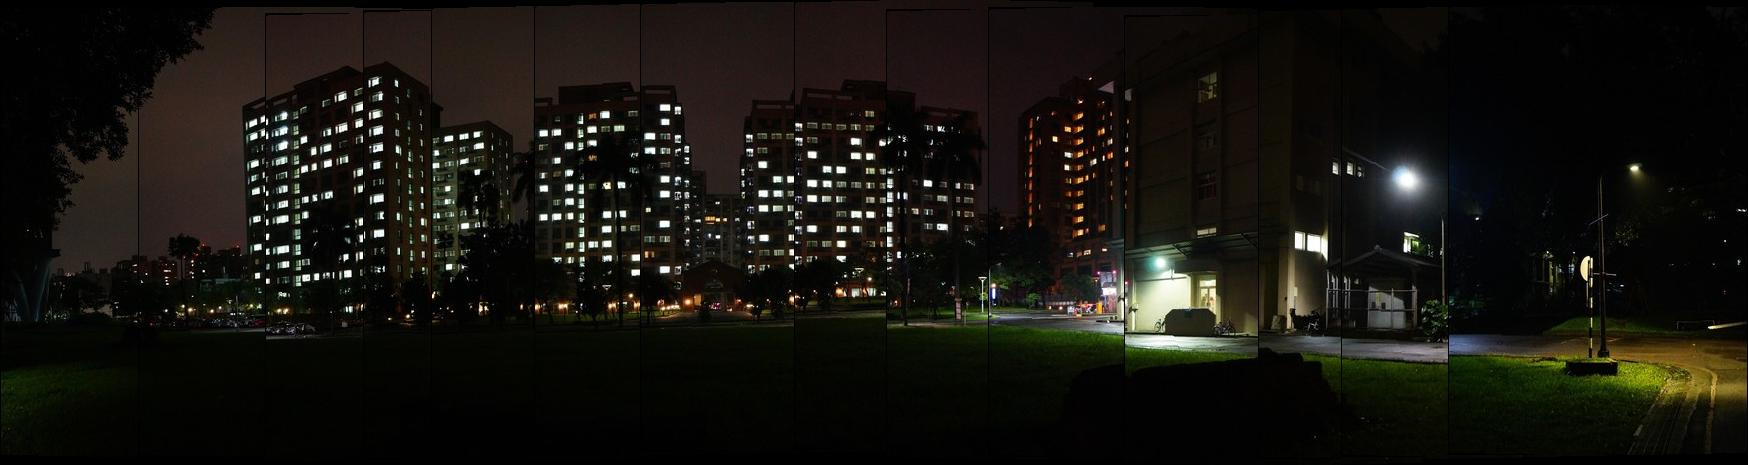
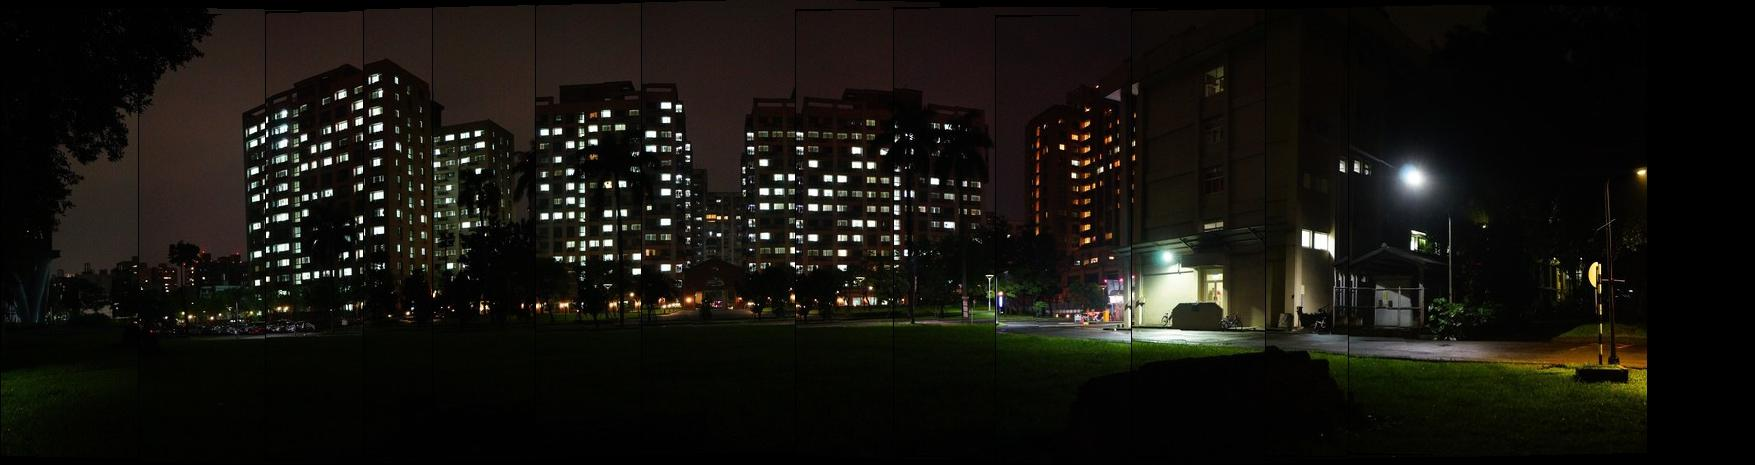
Fri Apr 26 18:33:37 CST 2019 finish linear blending

diff --git a/project2_panorama/src/stitching_cv2_test.py b/project2_panorama/src/stitching_cv2_test.py
@@ -1,0 +1,116 @@
+import cv2
+import numpy as np
+
+#    sift_threshold = 5   sift_cutoff = 0.0003     matched_y_abs_thres = 20
+shift_list = [[0,0],[-138,4],[-127, 2],[-98,2], [-69,6],[-103,-8],[-106, 2],
+            [-154,-9],[-98,3],[-102,2],[-136, 2],[-134, 4],[-83,3],[-107,-6]]
+shift_set = np.array(shift_list)
+height = 450
+width = 300
+image_set_size = 14
+img_list = []
+for i in range(image_set_size):
+    img = cv2.imread(str(i)+'.jpg') # size = 450x300
+    img_list.append(img)
+
+#######################################################
+
+shift_x = 0 #-1423
+shift_y = 0
+shift_y_max = -1*float("inf") #30
+shift_y_min = float("inf") #-1
+for shift in shift_list:
+    shift_x += shift[0]
+    shift_y += shift[1]
+    if shift_y<shift_y_min: shift_y_min=shift_y
+    if shift_y>shift_y_max: shift_y_max=shift_y
+
+# calculate left-top point coordinate of each image coming in pano scale
+# camera from left turn right
+# shift would be x,y    x<0  y not sure
+# pano coordinate go down go right is positive
+shift_acc=[] #shift_accumulations
+shift_sum = np.array([0,0])
+for shift in shift_set:
+    shift_sum+=shift
+    temp = shift_sum.copy()
+    temp[0] = -1*temp[0]
+    shift_acc.append(temp)
+print shift_acc, len(shift_acc)
+
+new_img = np.zeros( (height+abs(shift_y_min)+abs(shift_y_max), width+abs(shift_x),3),dtype=np.uint8)
+print new_img.shape # (481,1723,3)
+new_h, new_w  = new_img.shape[:2]
+
+'''
+# simple stitching by overlap new image on old image
+for i,new_i in enumerate(range(0,img1_h)):
+    for j,new_j in enumerate(range(0,138)):
+        new_img[new_i][new_j] = img1[i][j]
+for i,new_i in enumerate(range(4,new_h)):
+    for j,new_j in enumerate(range(138,138+img2_w)):
+        new_img[new_i][new_j] = img2[i][j]
+'''
+'''
+# linear filter blending at hole overlap area
+for i,new_i in enumerate(range(0,img1_h)):
+    for j,new_j in enumerate(range(0,138)):
+        new_img[new_i][new_j] = img1[i][j]
+    for j,new_j in enumerate(range(138,img1_w)):
+        new_img[new_i][new_j] += (((img1_w-j-138)/(img1_w-138.))* img1[i][j+138]).astype(np.uint8)
+        #print new_img[new_i][new_j]
+for i,new_i in enumerate(range(4,new_h)):
+    for j,new_j in enumerate(range(138,img1_w)):
+        new_img[new_i][new_j] += ((j/(img1_w-138.))*img2[i][j]).astype(np.uint8)
+        #print new_img[new_i][new_j]
+    for j,new_j in enumerate(range(img1_w,new_w)):
+        new_img[new_i][new_j] = img2[i][j+img1_w-138]
+'''
+'''
+# linear filter blending at fixed width boundoury overlap area
+br_x = (img1_w+138)/2
+bl_r = 15 #fixed_bl_region radius
+for i,new_i in enumerate(range(0,img1_h)):
+    for j,new_j in enumerate(range(0,br_x-bl_r)):
+        new_img[new_i][new_j] = img1[i][j]
+    for j,new_j in enumerate(range(br_x-bl_r,br_x+bl_r)):
+        new_img[new_i][new_j] += (((2*bl_r-j)/float(2*bl_r)) * img1[i][j+br_x-bl_r]).astype(np.uint8)
+for i,new_i in enumerate(range(4,new_h)):
+    for j,new_j in enumerate(range(br_x-bl_r,br_x+bl_r)):
+        new_img[new_i][new_j] += ((j/float(2*bl_r)) * img2[i][j+br_x-bl_r-138]).astype(np.uint8)
+    for j,new_j in enumerate(range(br_x+bl_r,new_w)):
+        print j,new_j
+        new_img[new_i][new_j] = img2[i][j+br_x+bl_r-138]
+'''
+
+left_br_x, right_br_x = 0, 0  #boundoury
+for img_num,img in enumerate(img_list):
+    bl_r = 15 #fixed_bl_region radius, #blending_r
+    for i,new_i in enumerate(range(shift_acc[img_num][1]+abs(shift_y_min), height+shift_acc[img_num][1]+abs(shift_y_min))):
+        if img_num == 0: #shape |-\
+            left_br_x = 0
+            right_br_x = ((shift_acc[img_num][0]+width) + shift_acc[img_num+1][0])/2
+            for j,new_j in enumerate(range(0, right_br_x-bl_r)): # flatten, uniform
+                new_img[new_i][new_j] = img[i][j]
+            for j,new_j in enumerate(range(right_br_x-bl_r, right_br_x+bl_r)):  # linear decreasing
+                new_img[new_i][new_j] += (((2*bl_r-j)/float(2*bl_r)) * img[i][j + right_br_x - bl_r]).astype(np.uint8)
+
+        elif img_num == image_set_size-1: #shape /-|
+            right_br_x = new_w
+            for j,new_j in enumerate(range(left_br_x-bl_r, left_br_x+bl_r)): # linear increasing
+                new_img[new_i][new_j] += ((j/float(2*bl_r)) * img[i][ j + (left_br_x-bl_r) - shift_acc[img_num][0]]).astype(np.uint8)
+            for j,new_j in enumerate(range(left_br_x+bl_r, new_w)): # flatten, uniform
+                new_img[new_i][new_j] = img[i][ j + (left_br_x+bl_r) - shift_acc[img_num][0]]
+
+        else: #shape /-\
+            right_br_x = ((shift_acc[img_num][0]+width) + shift_acc[img_num+1][0])/2
+            for j,new_j in enumerate(range(left_br_x-bl_r, left_br_x+bl_r)): # linear increasing
+                new_img[new_i][new_j] += ((j/float(2*bl_r)) * img[i][ j + (left_br_x-bl_r) - shift_acc[img_num][0]]).astype(np.uint8)
+            for j,new_j in enumerate(range(left_br_x+bl_r, right_br_x-bl_r)): # flatten, uniform
+                new_img[new_i][new_j] = img[i][ j + (left_br_x+bl_r) - shift_acc[img_num][0]]
+            for j,new_j in enumerate(range(right_br_x-bl_r, right_br_x+bl_r)):  # linear decreasing
+                new_img[new_i][new_j] += (((2*bl_r-j)/float(2*bl_r)) * img[i][j + (right_br_x-bl_r) - shift_acc[img_num][0]]).astype(np.uint8)
+
+    left_br_x = right_br_x
+
+cv2.imwrite('Translation.png', new_img)

diff --git a/project2_panorama/src/siftmatch.py b/project2_panorama/src/siftmatch.py
@@ -10,8 +10,8 @@ def sift_matching(templatename, imagename, kpt,dt,kpi,di, cutoff):
     height, width =  img.shape[:2]
 
     flann_params = dict(algorithm=1, trees=4)
-    flann = cv2.flann_Index(np.asarray(di, np.float32), flann_params)
-    idx, dist = flann.knnSearch(np.asarray(dt, np.float32), 1, params={})
+    flann = cv2.flann_Index(np.asarray(dt, np.float32), flann_params)
+    idx, dist = flann.knnSearch(np.asarray(di, np.float32), 1, params={})
     del flann
 
     dist = dist[:,0]/2500.0

diff --git a/project2_panorama/src/stitch.py b/project2_panorama/src/stitch.py
@@ -64,7 +64,7 @@ Args:
 Returns:
     A stitched image
 """
-def stitching(shift_list, image_set_size, height, width):
+def stitching_wo_blending(shift_list, image_set_size, height, width):
     img_list = []
     for i in range(image_set_size):
         img = Image.open(str(i)+'.jpg') # size = 450x300
